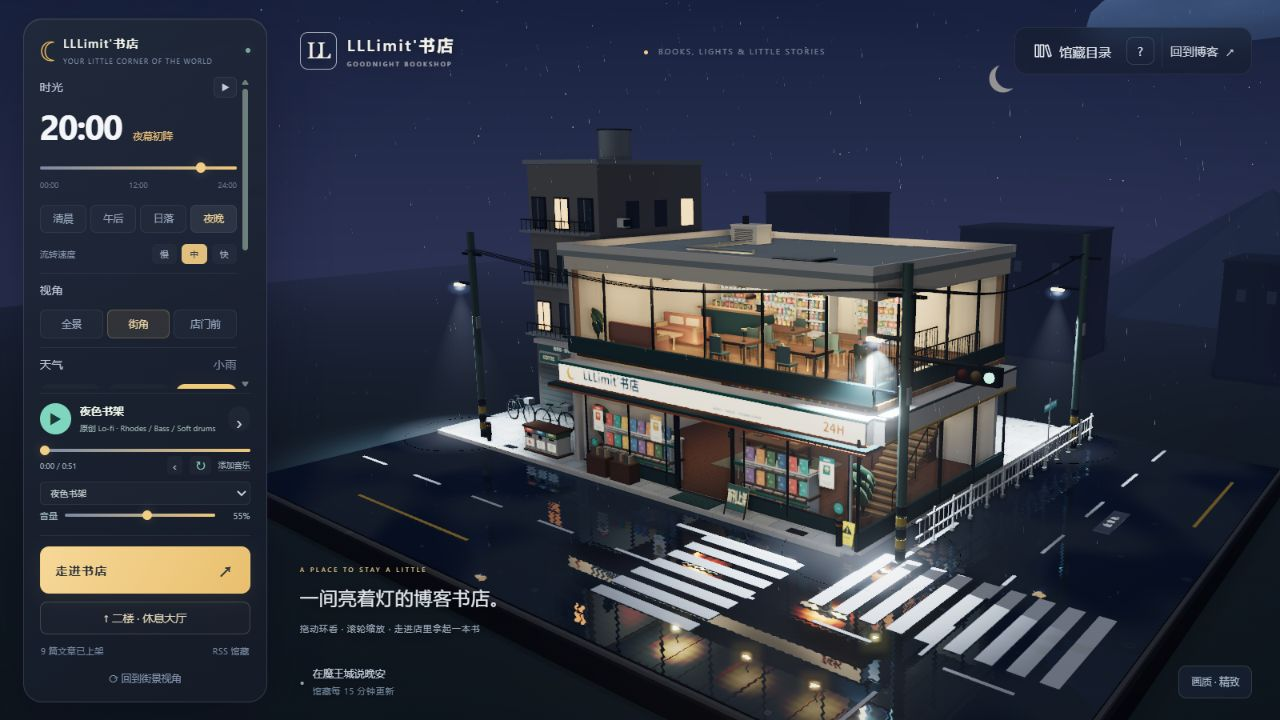
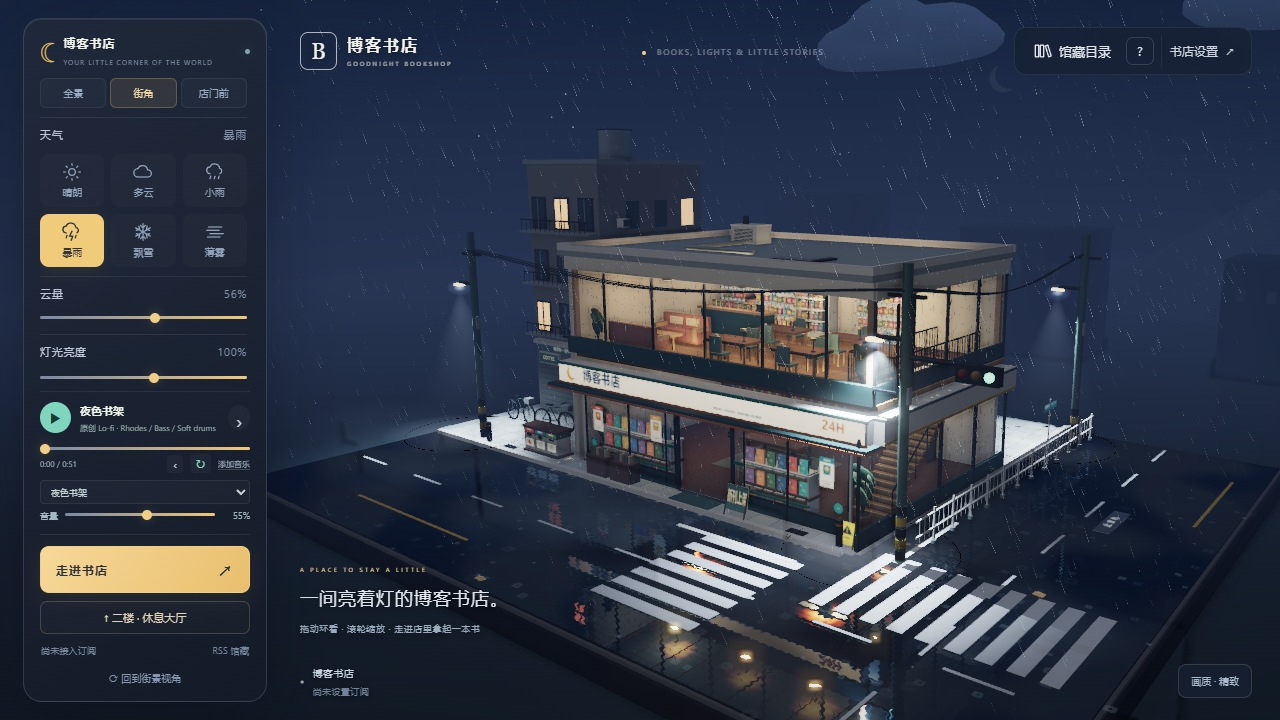
Refresh rainy showcase and add snowy street-corner preview

diff --git a/README.md b/README.md
@@ -33,7 +33,17 @@ BlogBookstore 通过公开 RSS / Atom 将博客文章放进可漫游的两层书
 
 [进入 LLLimit'书店](https://book.darkduck.fun/)
 
-[![雨夜街角实景：两层书店、路灯与雨天路面倒影](https://raw.githubusercontent.com/LLLimit/BlogBookstore/main/docs/images/rainy-street-corner.jpg)](https://book.darkduck.fun/)
+### 雨夜街角
+
+[![雨夜街角：两层书店、斜落雨滴、路灯与湿润路面倒影](https://raw.githubusercontent.com/LLLimit/BlogBookstore/main/docs/images/rainy-street-corner.jpg)](https://book.darkduck.fun/)
+
+暴雨中的书店，配有玻璃流动水珠、屋檐滴水与地面水花。
+
+### 雪天街角
+
+[![雪天街角：飘落雪花、人行道与路面积雪，以及屋顶和雨棚积雪](https://raw.githubusercontent.com/LLLimit/BlogBookstore/main/docs/images/snowy-street-corner.jpg)](https://book.darkduck.fun/)
+
+飘雪时，路面、人行道、路沿、屋顶和雨棚逐渐积雪，店内保持温暖明亮。
 
 ## 技术栈
 
